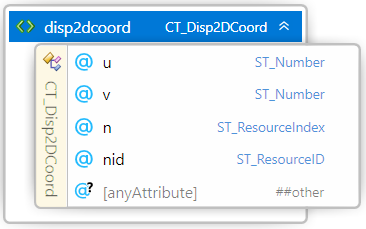
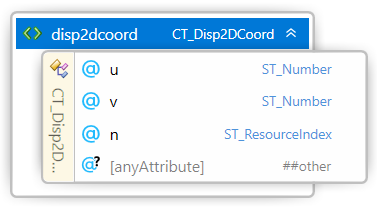
Updated nid

diff --git a/3MF Displacement Extension.md b/3MF Displacement Extension.md
@@ -122,7 +122,7 @@ Element **\<displacement2d>**
 | Name   | Type   | Use   | Default   | Annotation |
 | --- | --- | --- | --- | --- |
 | id | **ST\_ResourceID** | required |   | ResourceID of this displacement resource. |
-| path | **ST\_UriReference** | required |   | path to the displacement texture. |
+| path | **ST\_UriReference** | required |   | Path to the displacement image file. |
 | contenttype | **ST\_ContentType** | required |   | Content type of the texture resource. PNG or JPEG allowed. |
 | channel | **ST\_ChannelName** | optional | G | Specifies which channel to reference in the displacement texture. Valid values are R, G, B, A. Ignored for monochromatic images. |
 | tilestyleu | **ST_TileStyle** |  | wrap | Specifies how tiling should occur in the u axis in order to fill the overall requested area. Valid values are wrap, mirror, clamp, none. |
@@ -131,6 +131,10 @@ Element **\<displacement2d>**
 | @anyAttribute | | | | |
 
 A displacement texture resource provides information about texture image data, found via the provided path reference, which MUST also be the target of a 3D Texture relationship from the 3D Model part. 
+
+**id** - Specifies a unique identifier for this displacement resource. 
+
+**path** - Specifies the path to the displacement image file.
 
 **contenttype** - The only supported content types are JPEG and PNG, as more specifically specified in the 3MF core spec under the [6.1. Thumbnail](https://github.com/3MFConsortium/spec_core/blob/1.3.0/3MF%20Core%20Specification.md#61-thumbnail) section.
 
@@ -162,10 +166,16 @@ Element **\<disp2dgroup>**
 
 A \<disp2dgroup> element acts as a container for texture coordinate properties. The order of these elements forms an implicit 0-based index that is referenced by other elements, such as the \<object> and \<triangle> elements. It also specifies which image to use, via dispid. The referenced \<displacement2d> elements are described above in [2.1 Displacement2D](#21-displacement2d).
 
+**id** - Specifies a unique identifier for this displacement resource. 
+
+**dispid** - Selects the ID of the Displacement map used in this displacement group. 
+
+**nid** - Specifies the normalized vector group used in this dispalcement group. 
+
 **depth** - The depth attribute defines the displacement amplitude for the maximum texture value range.
 
 **offset** - The offset attribute defines the displacement offset to apply. The offset default value is 0.
-
+-
 The displacement value is computed by:
 
 	displacement value = (depth * displacement texture value) + offset
@@ -205,6 +215,8 @@ Element **\<normvectorgroup>**
 A \<normvectorgroup> element acts as a container for normalized vectors properties. The order of these elements forms an implicit 0-based index that is referenced by the \<disp2dcoords> element.
 
 To avoid integer overflows, a texture coordinate group MUST contain less than 2^31 disp2dcoords.
+
+**id** - Specifies a unique identifier for this displacement resource. 
 
 ### 2.3.1 NormVector
 Element **\<normvector>**
@@ -356,6 +368,7 @@ See [the 3MF Core Specification glossary](https://github.com/3MFConsortium/spec_
 		</xs:sequence>
 		<xs:attribute name="id" type="ST_ResourceID" use="required"/>
 		<xs:attribute name="dispid" type="ST_ResourceID" use="required"/>
+		<xs:attribute name="nid" type="ST_ResourceID" use="required"/>
 		<xs:attribute name="depth" type="ST_Number" use="required"/>
 		<xs:attribute name="offset" type="ST_Number" default="0"/>
 		<xs:anyAttribute namespace="##other" processContents="lax"/> 
@@ -381,7 +394,6 @@ See [the 3MF Core Specification glossary](https://github.com/3MFConsortium/spec_
 		<xs:attribute name="u" type="ST_Number" use="required"/>
 		<xs:attribute name="v" type="ST_Number" use="required"/>
 		<xs:attribute name="n" type="ST_ResourceIndex" use="required"/>
-		<xs:attribute name="nid" type="ST_ResourceID" use="required"/>
 		<xs:anyAttribute namespace="##other" processContents="lax"/> 
 	</xs:complexType>
 	
